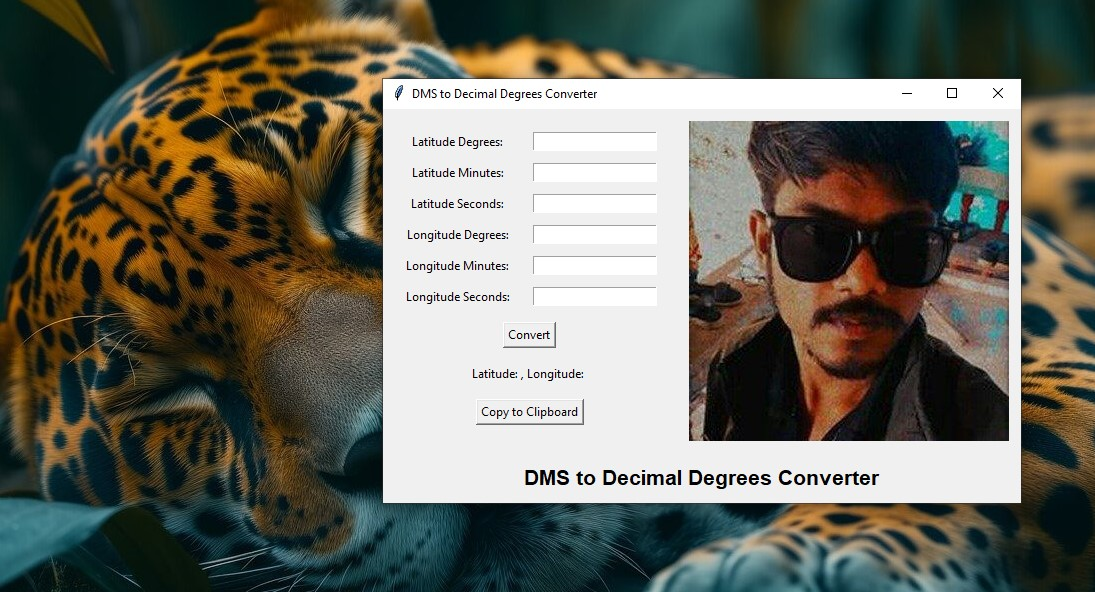
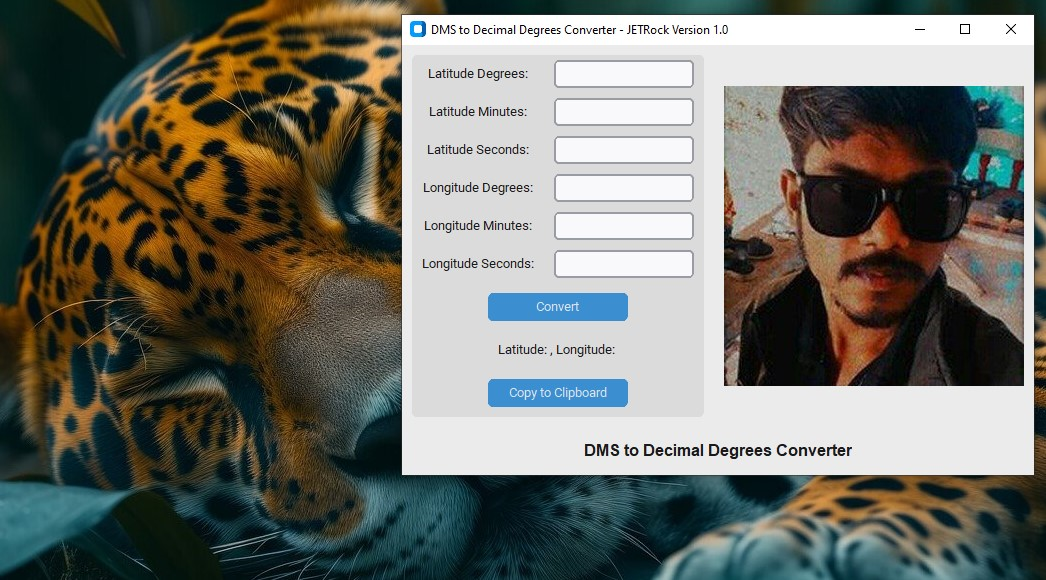
modify GUI

diff --git a/main.py b/main.py
@@ -1,21 +1,9 @@
-import tkinter as tk
-from tkinter import messagebox
-from PIL import Image, ImageTk
+import customtkinter as ctk
+from PIL import Image
 import pyperclip
 import webbrowser
 
 def dms_to_dd(degrees, minutes, seconds):
-    """
-    Converts DMS (degrees, minutes, seconds) to decimal degrees.
-    
-    Parameters:
-    degrees (int): The degrees part of the DMS coordinate.
-    minutes (int): The minutes part of the DMS coordinate.
-    seconds (float): The seconds part of the DMS coordinate.
-    
-    Returns:
-    float: The decimal degrees.
-    """
     dd = abs(degrees) + minutes / 60 + seconds / 3600
     return dd if degrees >= 0 else -dd
 
@@ -34,9 +22,9 @@ def convert_dms_to_dd():
         
         result_label.config(text=f"Latitude: {lat_decimal_degrees:.6f}, Longitude: {lon_decimal_degrees:.6f}")
     except ValueError:
-        messagebox.showerror("Invalid input", "Please enter valid numbers for degrees, minutes, and seconds.")
+        ctk.CTkMessageBox.show_error("Invalid input", "Please enter valid numbers for degrees, minutes, and seconds.")
     except Exception as e:
-        messagebox.showerror("Error", str(e))
+        ctk.CTkMessageBox.show_error("Error", str(e))
 
 def copy_to_clipboard():
     result_text = result_label.cget("text")
@@ -45,59 +33,61 @@ def copy_to_clipboard():
         lat = lat_lon[0].split(": ")[1]
         lon = lat_lon[1].split(": ")[1]
         pyperclip.copy(f"Latitude: {lat}, Longitude: {lon}")
-        messagebox.showinfo("Copied", "Latitude and Longitude copied to clipboard.")
+        ctk.CTkMessageBox.show_info("Copied", "Latitude and Longitude copied to clipboard.")
 
 def open_profile(event):
-    webbrowser.open("https://github.com/jeturgavli")  
+    webbrowser.open("https://github.com/jeturgavli")
 
-root = tk.Tk()
-root.title("DMS to Decimal Degrees Converter")
+ctk.set_appearance_mode("System")
+ctk.set_default_color_theme("blue")
 
-input_frame = tk.Frame(root)
+root = ctk.CTk()
+root.title("DMS to Decimal Degrees Converter - JETRock Version 1.0")
+
+input_frame = ctk.CTkFrame(root)
 input_frame.grid(row=0, column=0, padx=10, pady=10)
 
-tk.Label(input_frame, text="Latitude Degrees:").grid(row=0, column=0, padx=10, pady=5)
-lat_degrees_entry = tk.Entry(input_frame)
+ctk.CTkLabel(input_frame, text="Latitude Degrees:").grid(row=0, column=0, padx=10, pady=5)
+lat_degrees_entry = ctk.CTkEntry(input_frame)
 lat_degrees_entry.grid(row=0, column=1, padx=10, pady=5)
 
-tk.Label(input_frame, text="Latitude Minutes:").grid(row=1, column=0, padx=10, pady=5)
-lat_minutes_entry = tk.Entry(input_frame)
+ctk.CTkLabel(input_frame, text="Latitude Minutes:").grid(row=1, column=0, padx=10, pady=5)
+lat_minutes_entry = ctk.CTkEntry(input_frame)
 lat_minutes_entry.grid(row=1, column=1, padx=10, pady=5)
 
-tk.Label(input_frame, text="Latitude Seconds:").grid(row=2, column=0, padx=10, pady=5)
-lat_seconds_entry = tk.Entry(input_frame)
+ctk.CTkLabel(input_frame, text="Latitude Seconds:").grid(row=2, column=0, padx=10, pady=5)
+lat_seconds_entry = ctk.CTkEntry(input_frame)
 lat_seconds_entry.grid(row=2, column=1, padx=10, pady=5)
 
-tk.Label(input_frame, text="Longitude Degrees:").grid(row=3, column=0, padx=10, pady=5)
-lon_degrees_entry = tk.Entry(input_frame)
+ctk.CTkLabel(input_frame, text="Longitude Degrees:").grid(row=3, column=0, padx=10, pady=5)
+lon_degrees_entry = ctk.CTkEntry(input_frame)
 lon_degrees_entry.grid(row=3, column=1, padx=10, pady=5)
 
-tk.Label(input_frame, text="Longitude Minutes:").grid(row=4, column=0, padx=10, pady=5)
-lon_minutes_entry = tk.Entry(input_frame)
+ctk.CTkLabel(input_frame, text="Longitude Minutes:").grid(row=4, column=0, padx=10, pady=5)
+lon_minutes_entry = ctk.CTkEntry(input_frame)
 lon_minutes_entry.grid(row=4, column=1, padx=10, pady=5)
 
-tk.Label(input_frame, text="Longitude Seconds:").grid(row=5, column=0, padx=10, pady=5)
-lon_seconds_entry = tk.Entry(input_frame)
+ctk.CTkLabel(input_frame, text="Longitude Seconds:").grid(row=5, column=0, padx=10, pady=5)
+lon_seconds_entry = ctk.CTkEntry(input_frame)
 lon_seconds_entry.grid(row=5, column=1, padx=10, pady=5)
 
-convert_button = tk.Button(input_frame, text="Convert", command=convert_dms_to_dd)
+convert_button = ctk.CTkButton(input_frame, text="Convert", command=convert_dms_to_dd)
 convert_button.grid(row=6, column=0, columnspan=2, pady=10)
 
-result_label = tk.Label(input_frame, text="Latitude: , Longitude: ")
+result_label = ctk.CTkLabel(input_frame, text="Latitude: , Longitude: ")
 result_label.grid(row=7, column=0, columnspan=2, pady=5)
 
-copy_button = tk.Button(input_frame, text="Copy to Clipboard", command=copy_to_clipboard)
+copy_button = ctk.CTkButton(input_frame, text="Copy to Clipboard", command=copy_to_clipboard)
 copy_button.grid(row=8, column=0, columnspan=2, pady=10)
 
-image = Image.open("img/01.jpg")  
-photo = ImageTk.PhotoImage(image)
+image = Image.open("img/01.jpg")
+photo = ctk.CTkImage(image, size=(300, 300))
 
-image_label = tk.Label(root, image=photo)
+image_label = ctk.CTkLabel(root, image=photo, text="")
 image_label.grid(row=0, column=1, padx=10, pady=10)
 image_label.bind("<Button-1>", open_profile)
 
-heading_label = tk.Label(root, text="DMS to Decimal Degrees Converter", font=("Helvetica", 16, "bold"))
+heading_label = ctk.CTkLabel(root, text="DMS to Decimal Degrees Converter", font=("Helvetica", 16, "bold"))
 heading_label.grid(row=1, column=0, columnspan=2, pady=10)
-
 
 root.mainloop()
